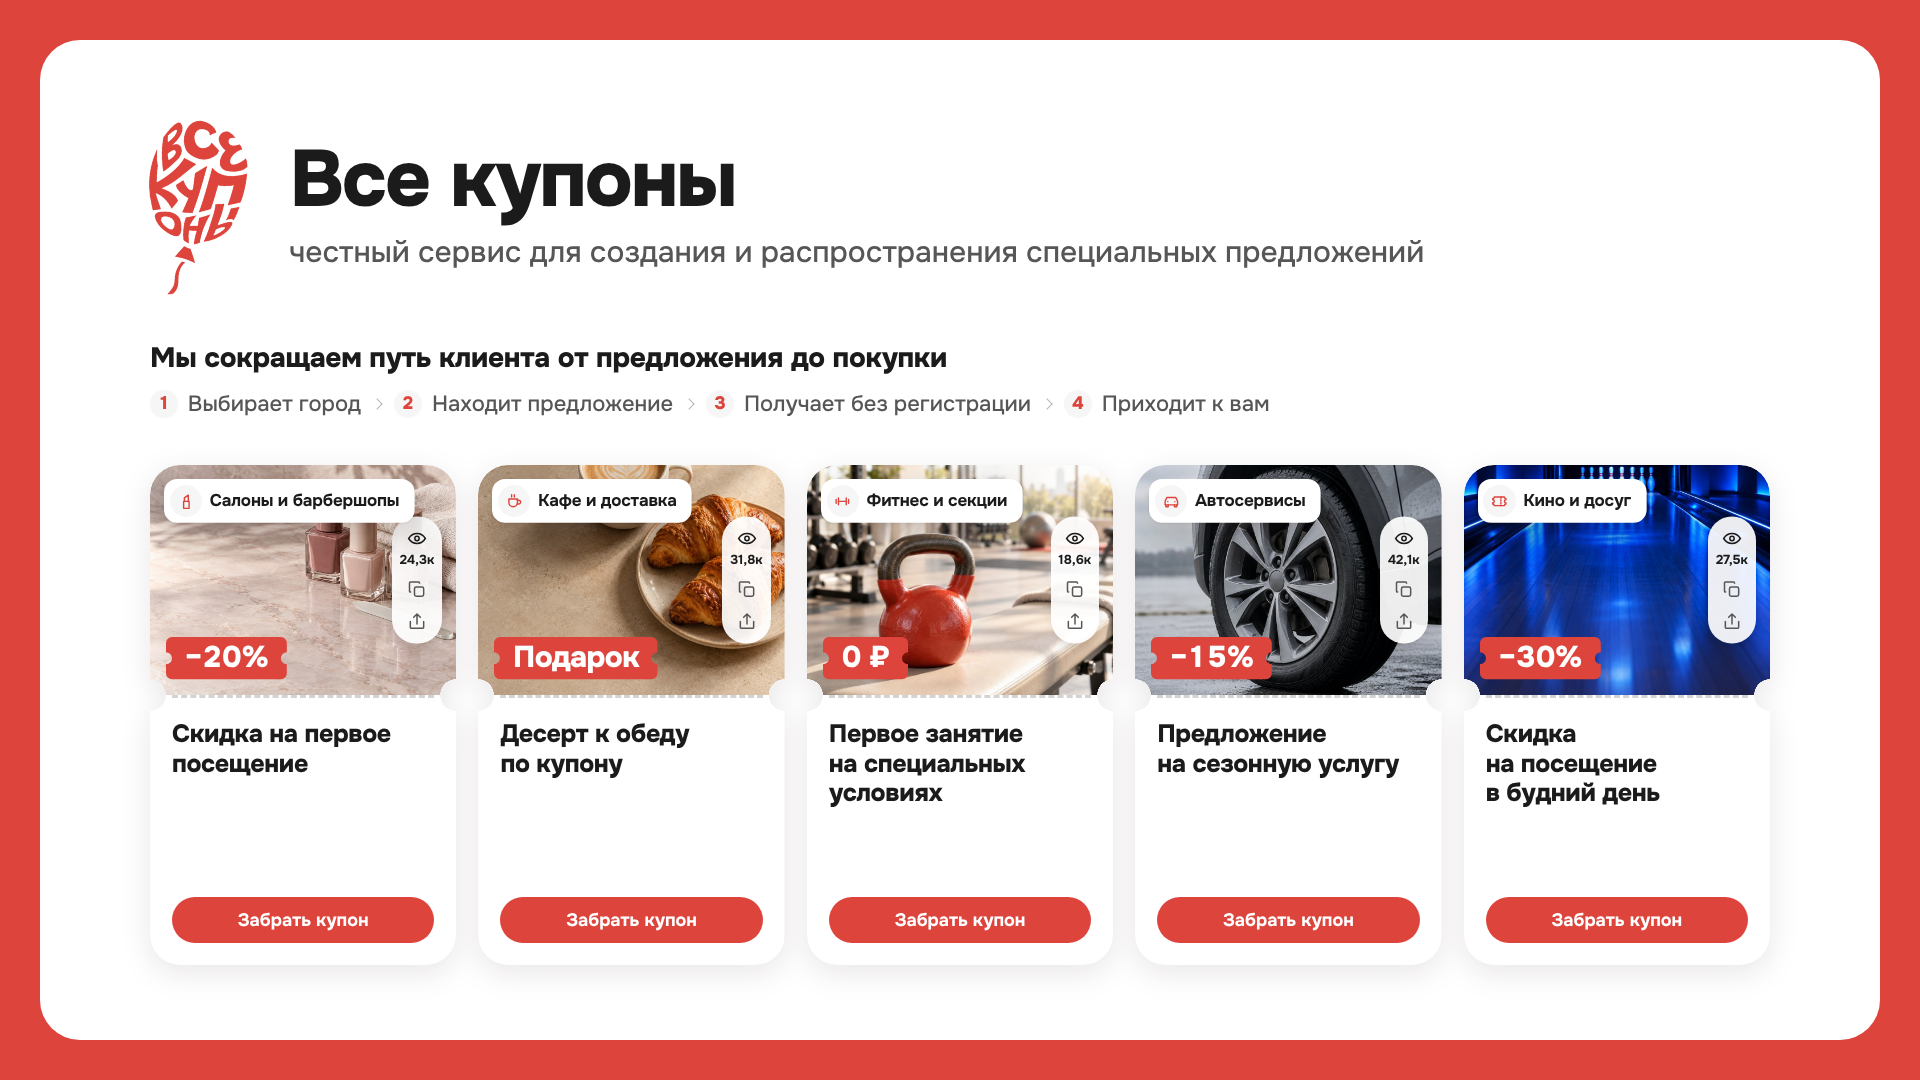
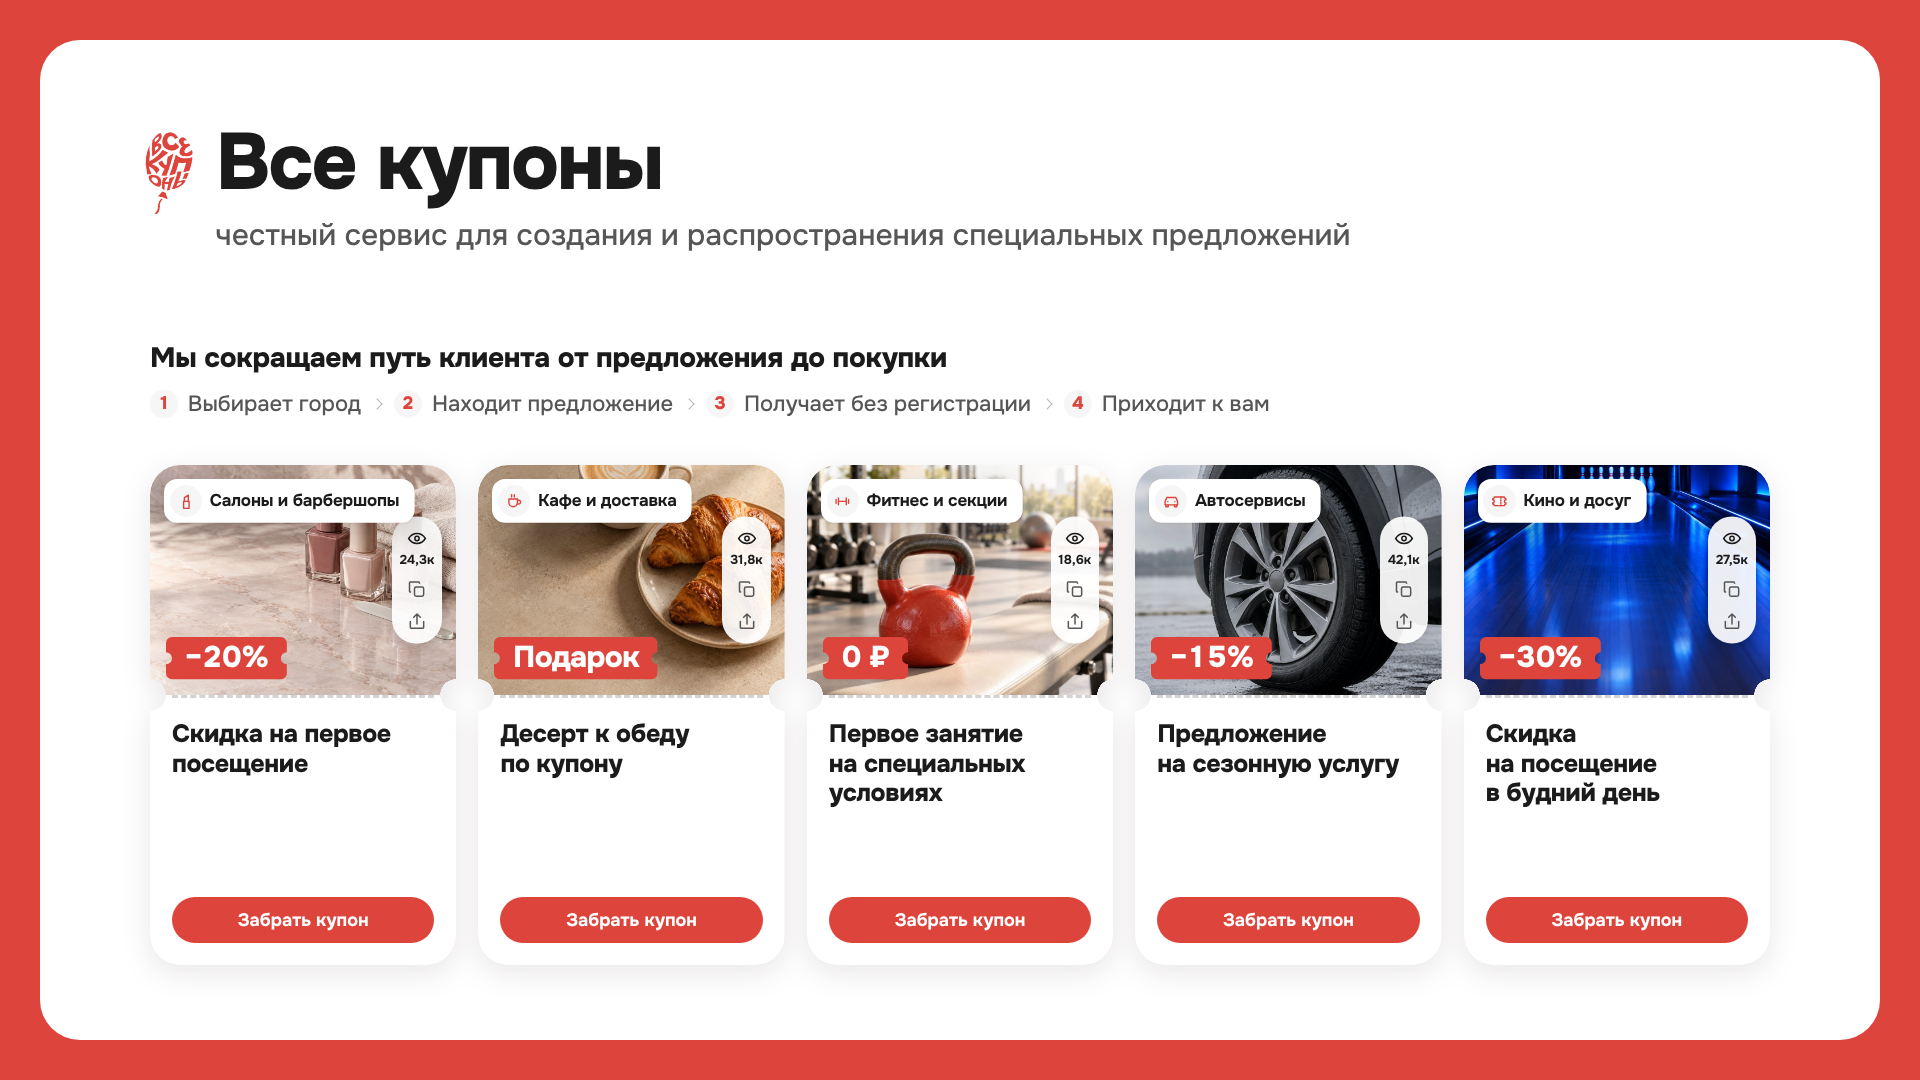
Презентация: знак у «Все купоны» высотой с заглавную букву
Claude-Session: https://claude.ai/code/session_01HQTTQEBkqu3b2tPP56NRpL

Changed region(s): [[0.0625, 0.0917, 0.75, 0.2444]]

diff --git a/social-kit/deck.html b/social-kit/deck.html
@@ -563,8 +563,8 @@ a{color:inherit;text-decoration:none}
 .mp__t span{font-size:21px;font-weight:600;line-height:1.3;color:var(--ink-2)}
 /* «Все купоны» — название сервиса: знак-шар рядом, как в шапке витрины
    (наклон −6°, точка вращения внизу — шар на верёвочке) */
-.brandup{display:flex;align-items:center;gap:30px}
-.brandup__m{flex:none;height:170px;margin-left:8px;width:auto;transform:rotate(-6deg);transform-origin:50% 90%}
+.brandup{display:flex;align-items:flex-start;gap:18px}
+.brandup__m{flex:none;height:80px;width:auto;margin-top:12px;transform:rotate(-6deg);transform-origin:50% 90%}
 </style>
 </head>
 <body>
